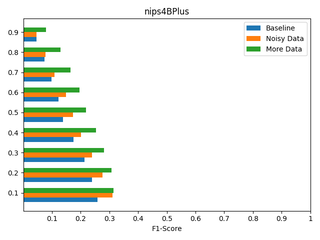
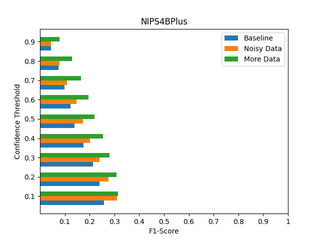
plot updates

Changed region(s): [[0.0, 0.0292, 1.0, 0.9917]]

diff --git a/visualization_helpers/visualizations_for_readme.py b/visualization_helpers/visualizations_for_readme.py
@@ -86,7 +86,7 @@ def visualize_matrix():
                                      [0.596, 0.600, 0.589, 0.632, 0.586]])  # batch size 1024
 
     plots.append({
-        'title': "F1-Score Min (cut)",
+        'title': "F1-Score Min (architectures)",
         'matrix': lr_batchsize_min_cut,
         'y_labels': [64, 128, 256, 512, 1024],
         'x_labels': [0.1, 0.01, 0.001, 0.0001, 0.00001]
@@ -137,11 +137,11 @@ def visualize_hyperparameter_bars():
         'rotate': 0
     })
 
-    architechtures = np.array([0.741, 0.698, 0.710, 0.737, 0.728])
+    architectures = np.array([0.741, 0.698, 0.710, 0.737, 0.728])
 
     plots.append({
         'title': 'Performance Comparison',
-        'array': architechtures,
+        'array': architectures,
         'labels': ['Resnet-18', 'Res18 noisy', 'Res18 more data', 'Resnet-50', 'Resnet-121'],
         'x-label': '',
         'rotate': 15
@@ -162,7 +162,7 @@ def visualize_hyperparameter_bars():
         plt.clf()
 
 
-def visualize_additionl_data():
+def visualize_additional_data():
     baseline = np.array([0.639, 0.720, 0.740, 0.742, 0.736, 0.726, 0.708, 0.680, 0.627])
     baseline_nips4bplus = np.array([0.258, 0.239, 0.213, 0.175, 0.139, 0.122, 0.098, 0.074, 0.045])
     baseline_nips4bplus_cut = np.array([0.266, 0.247, 0.218, 0.178, 0.139, 0.120, 0.093, 0.072, 0.044])
@@ -177,10 +177,13 @@ def visualize_additionl_data():
 
     ind = np.arange(9) * 1.5
     width = 0.35
+
+    #Xeno-Canto
     plt.barh(ind - width, baseline, width, label='Baseline')
     plt.barh(ind, noisy, width, label='Noisy Data')
     plt.barh(ind + width, more_data, width, label='More Data')
     plt.xlabel('F1-Score')
+    plt.ylabel('Confidence Threshold')
     plt.title('Xeno Canto')
     plt.xticks((0.1, 0.2, 0.3, 0.4, 0.5, 0.6, 0.7, 0.8, 0.9, 1), (0.1, 0.2, 0.3, 0.4, 0.5, 0.6, 0.7, 0.8, 0.9, 1))
     plt.yticks(ind + width / 2, (0.1, 0.2, 0.3, 0.4, 0.5, 0.6, 0.7, 0.8, 0.9))
@@ -194,7 +197,8 @@ def visualize_additionl_data():
     plt.barh(ind, noisy_nips4bplus, width, label='Noisy Data')
     plt.barh(ind + width, more_data_nips4bplus, width, label='More Data')
     plt.xlabel('F1-Score')
-    plt.title('nips4BPlus')
+    plt.ylabel('Confidence Threshold')
+    plt.title('NIPS4BPlus')
     plt.xticks((0.1, 0.2, 0.3, 0.4, 0.5, 0.6, 0.7, 0.8, 0.9, 1), (0.1, 0.2, 0.3, 0.4, 0.5, 0.6, 0.7, 0.8, 0.9, 1))
     plt.yticks(ind + width / 2, (0.1, 0.2, 0.3, 0.4, 0.5, 0.6, 0.7, 0.8, 0.9))
     plt.legend(loc='best')
@@ -202,19 +206,83 @@ def visualize_additionl_data():
 
     plt.clf()
 
-    # NIPS4BPlus Cut
+    # NIPS4BPlus Filtered
     plt.barh(ind - width, baseline_nips4bplus_cut, width, label='Baseline')
     plt.barh(ind, noisy_nips4bplus_cut, width, label='Noisy Data')
     plt.barh(ind + width, more_data_nips4bplus_cut, width, label='More Data')
     plt.xlabel('F1-Score')
-    plt.title('nips4BPlus cut')
+    plt.ylabel('Confidence Threshold')
+    plt.title('NIPS4BPlus, filtered')
     plt.xticks((0.1, 0.2, 0.3, 0.4, 0.5, 0.6, 0.7, 0.8, 0.9, 1), (0.1, 0.2, 0.3, 0.4, 0.5, 0.6, 0.7, 0.8, 0.9, 1))
     plt.yticks(ind + width / 2, (0.1, 0.2, 0.3, 0.4, 0.5, 0.6, 0.7, 0.8, 0.9))
     plt.legend(loc='best')
     plt.show()
 
 
+def visualize_class_distributions():
+    plots = []
+
+    xeno_training_spectrograms = np.array(
+        [5_374, 13_374, 9_890, 18_156, 11_026, 4_990, 12_474, 14_786, 11_001, 22_291, 22_291])
+    xeno_validation_spectrograms = np.array(
+        [1_426, 4_668, 3_145, 5_817, 3_721, 1_352, 4_219, 5_304, 2_990, 6_901, 6_901])
+    xeno_test_spectrograms = np.array(
+        [1_407, 5_027, 3_260, 6_472, 3_552, 1_599, 4_006, 4_968, 3_225, 6_995, 6_995])
+    nips4bplus_test_spectrograms = np.array(
+        [30, 47, 24, 38, 40, 12, 31, 17, 31, 55, 333])
+
+    plots.append({
+        'xeno_tr': xeno_training_spectrograms,
+        'xeno_va': xeno_validation_spectrograms,
+        'xeno_te': xeno_test_spectrograms,
+        'title': 'Class distribution Spectrograms',
+        'x-title': 'Number of Spectrograms',
+        'labels': ('Cyanistes caeruleus, song', 'Erithacus rubecula, song', 'Fringilla coelebs, song',
+                   'Luscinia megarhynchos, song', 'Parus major, song', 'Phylloscopus collybita, call',
+                   'Phylloscopus collybita, song', 'Sylvia atricapilla, song', 'Troglodytes troglodytes, song',
+                   'Turdus philomelos, song', 'Noise')
+    })
+
+    xeno_training_recordings = np.array(
+        [163, 300, 300, 298, 300, 201, 300, 300, 300, 300]
+    )
+    xeno_validation_recordings = np.array(
+        [55, 100, 100, 99, 100, 67, 100, 100, 100, 100]
+    )
+    xeno_test_recordings = np.array(
+        [55, 100, 100, 100, 100, 68, 100, 100, 100, 100]
+    )
+
+    plots.append({
+        'xeno_tr': xeno_training_recordings,
+        'xeno_va': xeno_validation_recordings,
+        'xeno_te': xeno_test_recordings,
+        'title': 'Class distribution Recordings',
+        'x-title': 'Number of Recordings',
+        'labels': ('Cyanistes caeruleus, song', 'Erithacus rubecula, song', 'Fringilla coelebs, song',
+                   'Luscinia megarhynchos, song', 'Parus major, song', 'Phylloscopus collybita, call',
+                   'Phylloscopus collybita, song', 'Sylvia atricapilla, song', 'Troglodytes troglodytes, song',
+                   'Turdus philomelos, song')
+    })
+
+    for plot in plots:
+        ind = np.arange(len(plot['labels'])) * 2
+        width = 0.35
+        plt.barh(ind - 0.5 * width, plot['xeno_tr'], width, label='Xeno-Train')
+        plt.barh(ind + 0.5 * width, plot['xeno_va'], width, label='Xeno-Val')
+        plt.barh(ind + 1.5 * width, plot['xeno_te'], width, label='Xeno-Test')
+        plt.xlabel(plot['x-title'])
+        plt.title(plot['title'])
+        plt.yticks(ind + width / 2, plot['labels'])
+        plt.legend(loc='best')
+        plt.tight_layout()
+        plt.show()
+
+        plt.clf()
+
+
 if __name__ == 'main':
     visualize_matrix()
     visualize_hyperparameter_bars()
-    visualize_additionl_data()
+    visualize_additional_data()
+    visualize_class_distributions()

diff --git a/README.md b/README.md
@@ -350,6 +350,11 @@ Table <a name="table-nips4bplus-dataset">5</a>>: Class distribution of the NIPS4
 | Noise (filtered NIPS4BPlus dataset)          | 87                                   | 333                                    |
 | **Total (filtered NIPS4BPlus / NIPS4BPlus)** | **107 / 569**                        | **486 / 2,300**                        |
 
+![plot](./plots/class_distribution_spectrograms.png)
+![plot](./plots/class_distribution_recordings.png)
+
+**Figure..** Class distribution for Spectrograms **Figure..** Class distribution for Recordings
+
 <div style="display: flex; flex-direction: column;">
     <div>
         <div style="display: flex;">
@@ -531,7 +536,7 @@ In addition, we also swapped our Resnet18 for Resnet50 and DenseNet121 each and 
 
 Figure X: Model F<sub>1</sub>-score on Xeno-Canto test set &nbsp;&nbsp;&nbsp; Figure X: Model F<sub>1</sub>-score on NIPS4BPlus test data
 
-![plot](./plots/nips4bplus_cut_data_comparison.png)
+![plot](./plots/nips4bplus_filtered_data_comparison.png)
 
 Figure X: Model F<sub>1</sub>-score on NIPS4BPlus data with
 
